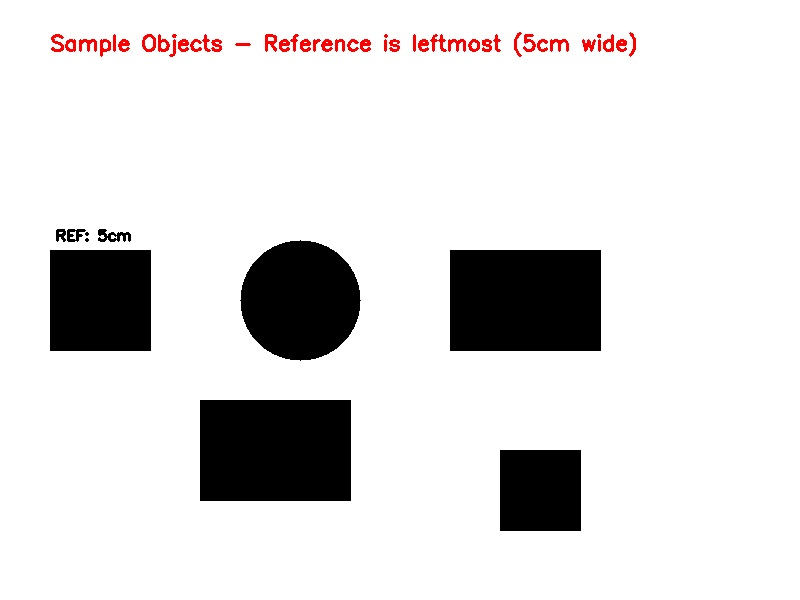
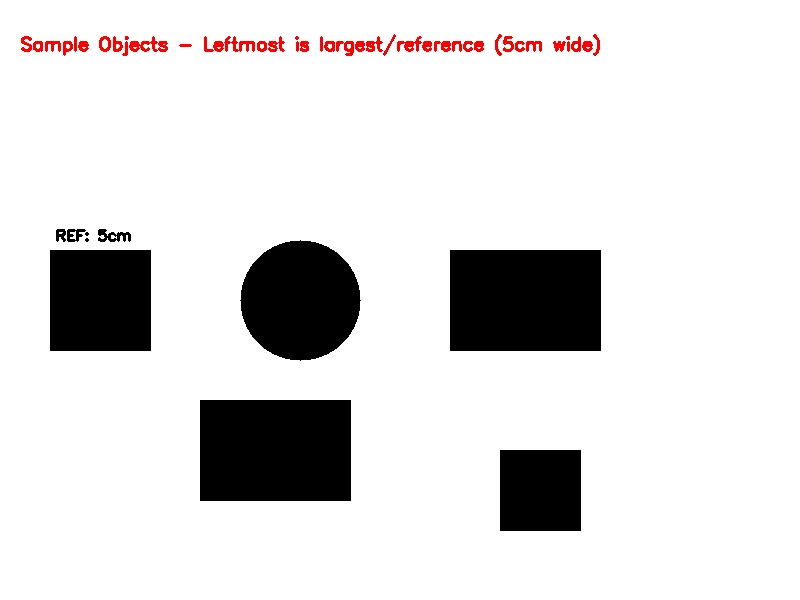
Update documentation and demo with clarified reference object selection

Changed region(s): [[0.0, 0.06, 0.8125, 0.09]]

diff --git a/create_demo_image.py b/create_demo_image.py
@@ -31,8 +31,8 @@ def create_demo_image():
     cv2.rectangle(img, (500, 450), (580, 530), (0, 0, 0), -1)
     
     # Add title
-    cv2.putText(img, "Sample Objects - Reference is leftmost (5cm wide)", 
-                (50, 50), cv2.FONT_HERSHEY_SIMPLEX, 0.7, (0, 0, 255), 2)
+    cv2.putText(img, "Sample Objects - Leftmost is largest/reference (5cm wide)",
+                (20, 50), cv2.FONT_HERSHEY_SIMPLEX, 0.6, (0, 0, 255), 2)
     
     return img
 
@@ -46,4 +46,4 @@ if __name__ == "__main__":
     print(f"Demo image saved to: {output_path}")
     print("\nYou can now test the measurement app with:")
     print(f"python measure_object_size.py --image {output_path} --width 5.0 --output measured_output.jpg")
-    print("\nThe leftmost rectangle is the reference object (5cm wide).")
+    print("\nThe leftmost rectangle is the largest object and will be used as reference (5cm wide).")

diff --git a/README.md b/README.md
@@ -74,8 +74,8 @@ python measure_object_size.py --webcam --width 3.0
 
 The application uses a reference object with a known width to establish the pixel-to-metric ratio:
 
-1. Place your reference object in the image/frame (leftmost or largest object)
-2. The app detects the reference object's contour
+1. Place your reference object in the image/frame (ensure it's the largest object by area)
+2. The app detects the reference object's contour (automatically selects the largest contour)
 3. Calculates pixels per unit based on the known width
 4. This ratio is then used for all subsequent measurements
 
